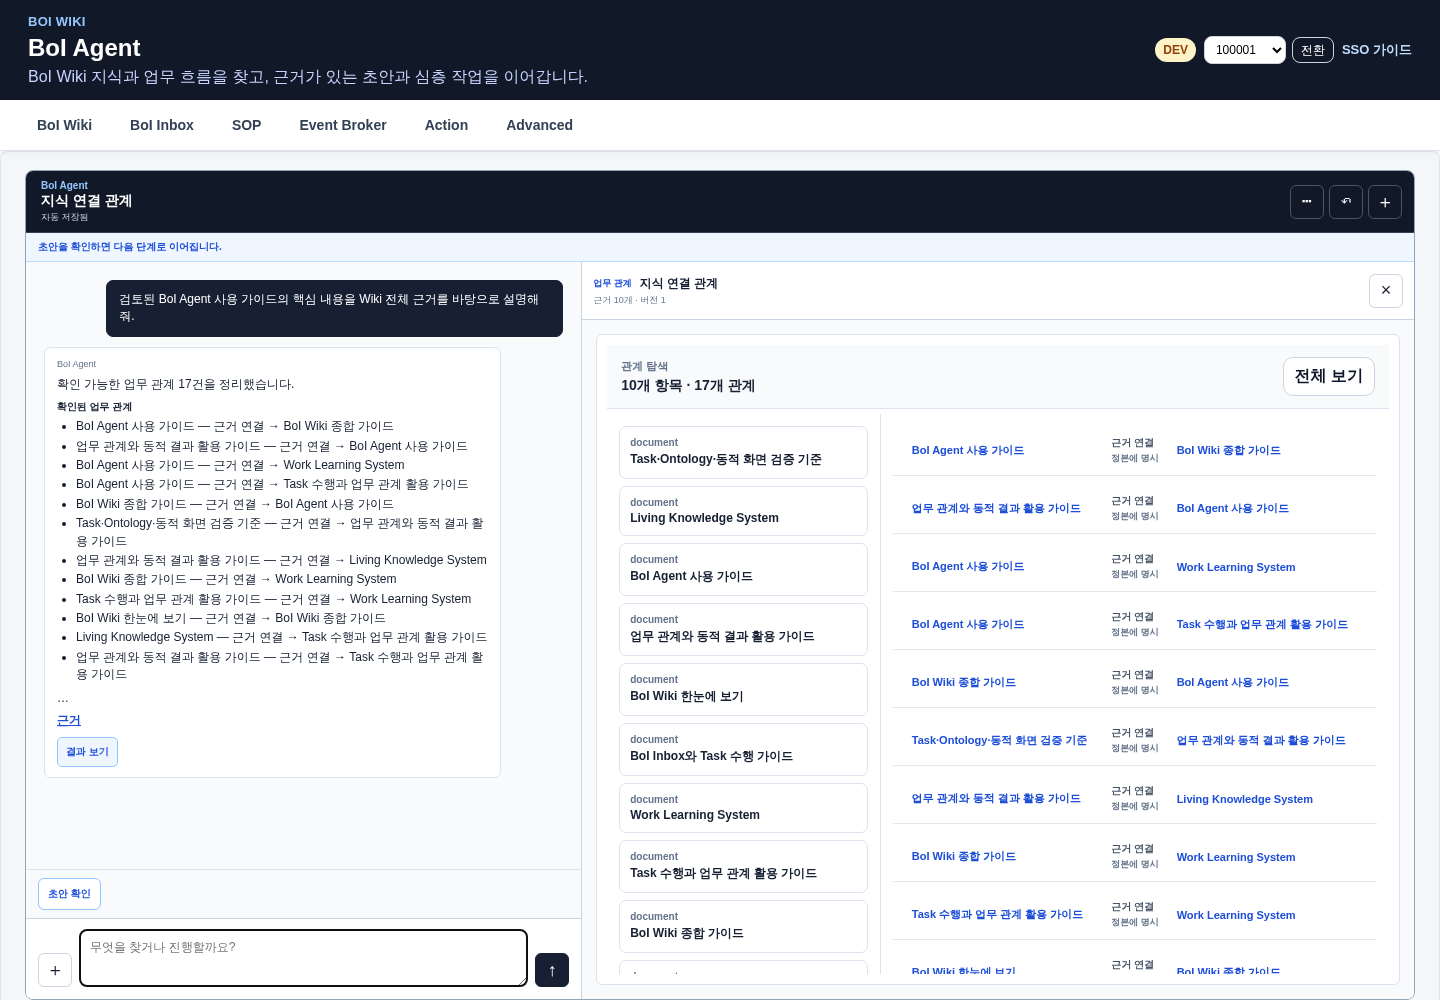
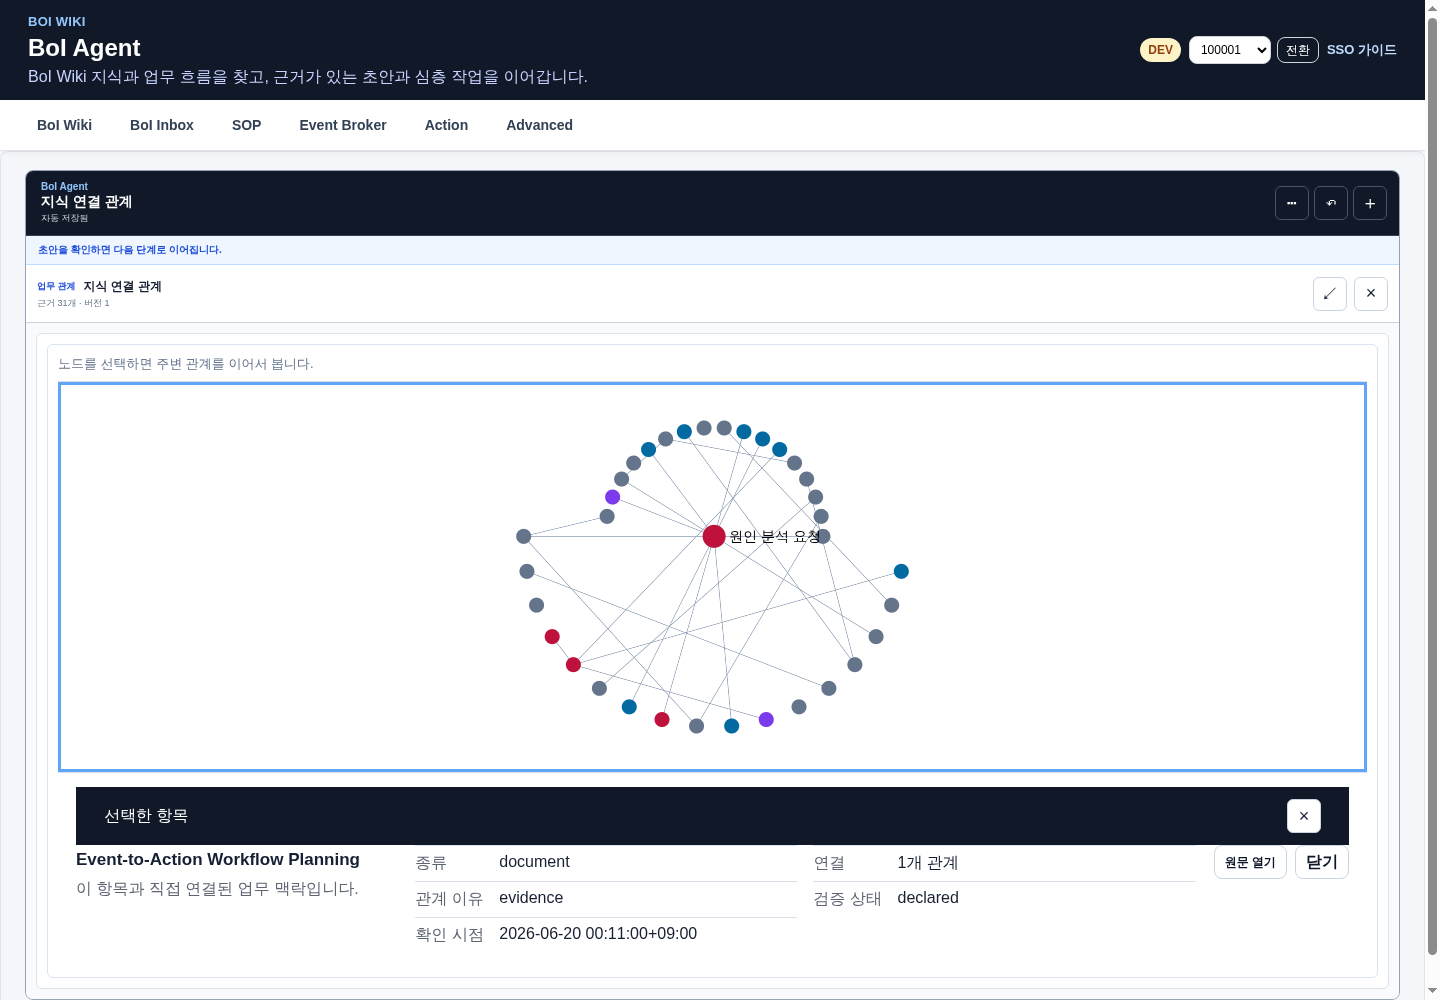
docs: publish verified graph dynamic work and acceptance guidance

diff --git a/data/boi/public/boi-wiki-manual/operations/task-ontology-a2ui-acceptance.md b/data/boi/public/boi-wiki-manual/operations/task-ontology-a2ui-acceptance.md
@@ -5,7 +5,7 @@ type: boi/manual
 title: Task·Ontology·동적 화면 검증 기준
 description: Task 수행, 업무 관계 탐색과 동적 결과 화면을 실제 업무에 사용하기 전에 확인하는 acceptance 기준
 tags: [BoIWiki, Task, Ontology, A2UI, Acceptance, Evidence]
-timestamp: 2026-07-13T00:10:00+09:00
+timestamp: 2026-07-13T20:10:00+09:00
 boi_id: boi:public:boi-wiki-manual:operations:task-ontology-a2ui-acceptance
 visibility: public
 classification: internal
@@ -14,7 +14,7 @@ author:
   type: agent
   agent_id: codex
 acl_policy: acl:public
-status: draft
+status: reviewed
 source_refs:
   - type: boi
     ref: boi:public:boi-wiki-manual:workflows:task-execution-ontology-guide
@@ -33,13 +33,13 @@ implementation_refs:
     ref: scripts/evaluate_agent_v2_work_scenarios.py
 review:
   reviewer: platform-lead
-  reviewed_at: 2026-07-13T03:10:00+09:00
-  review_status: needs_revision
+  reviewed_at: 2026-07-13T20:10:00+09:00
+  review_status: reviewed
 ---
 
 # 무엇을 검증하나
 
-> 현재 상태: core acceptance와 Mermaid artifact 직접 진입은 통과했지만 외부 OpenKB release gate와 생성 artifact 최종 응답 p95가 기준을 충족하지 못했다. 이 문서는 해당 항목이 해결될 때까지 `draft`로 유지한다.
+> 현재 상태: core, 실제 브라우저 여정, 로컬 Gemma, Graphify와 OpenKB release gate를 모두 통과했다. 아래 수치는 2026-07-13 최종 통합 실행 결과이며, 부분 실행 결과를 합산하지 않았다.
 
 Task 수행 화면, 업무 관계 그래프와 동적 결과 화면은 각각 따로 보이는 기능이 아니다. 같은 업무 맥락과 근거를 유지하면서 사람이 실제 일을 수행하고, 관계를 이해하며, 안전하게 결과를 남길 수 있어야 한다.
 
@@ -88,28 +88,33 @@ GPT-5.5는 기본 acceptance에 사용하지 않는다. Gemma에서 실패하거
 
 # 현재 검증 상태
 
-2026-07-13 기준으로 50개 handler와 12개 browser journey, production-like Gemma 의미 평가를 실행했다. core 기능과 Graphify release gate는 통과했지만 OpenKB 실제 add와 생성 artifact 응답 시간은 미통과다.
+2026-07-13 기준으로 50개 handler, 15개 실제 browser journey와 production-like Gemma 의미 평가를 실행했다. 브라우저 검증은 숨겨진 fixture나 HTML 문자열 존재를 성공으로 세지 않고 실제 클릭, 입력, canvas pixel, 원문 이동과 상태 복원을 확인한다.
 
 | 검증 | 결과 |
 |---|---:|
 | 결정적 시나리오 | 50/50 |
-| clean 전체 회귀 | 810 passed · 21분 48초 · repo 외부 격리 TMP runtime |
-| 브라우저 journey | 12/12 · 3 viewport · console 오류 0 |
-| Gemma 단일·멀티턴 의미 평가 | 17/17 · 모든 평가 지표 100% |
-| Snapshot 5회 p95 | 26.24ms |
-| 1-hop 관계 5회 p95 | 14.05ms |
-| grounded prose 최대 | 9.81초 |
-| 생성 artifact turn p95 | 18.71초 · 기준 미달 |
+| clean 전체 회귀 | 814 passed · 22분 57초 · 격리 TMP runtime |
+| 브라우저 journey | 15/15 · 4 viewport · 예상된 409 외 console 오류 0 |
+| Gemma 단일·멀티턴 의미 평가 | 17/17 · 모든 평가 지표 100% · GPT-5.5 미사용 |
+| Snapshot cold p95 / warm p50 | 289.74ms / 17.27ms |
+| 1-hop 관계 p95 | 15.16ms |
+| 4-hop path p95 | 12.05ms |
+| 첫 동적 surface compile p95 | 0.45ms |
+| 생성 graph artifact final p95 | 440.61ms |
 | Graphify 0.9.13 실제 CLI | 90 node·177 edge 수입 후 rollback 통과 |
-| OpenKB 0.4.4 실제 CLI | LM Studio `json_object` 호환 실패 · release 보류 |
-| Mermaid artifact 직접 진입 | cold URL·desktop reload·mobile reload 통과 · SVG nonblank·console 오류 0 |
-| 검색 품질 | Recall@8 1.00 · authoritative Top-3 1.00 |
+| OpenKB 0.4.4 실제 CLI | 실제 PDF에서 private 후보 4개 생성 · navigation 0 · 정본 변경 0 |
+| Graph UX | 1440×1000·1180×850·949×1151·390×844, canvas 폭 100%, 하단 inspector·Compact 복원 통과 |
+| 검색 품질 | Recall@8 1.00 · authoritative Top-3 1.00 · canonical Agent 가이드 Top-1 |
 | Web·REST·MCP parity | 10/10 |
 | LM Studio load/unload | 0건 |
 
 실모델 평가는 사용자가 띄운 Gemma만 사용한다. `업무 이벤트와 SOP 관계 설명 → 방금 관계만 Mermaid` 멀티턴에서 직전 citation보다 넓은 검색 후보를 다시 해석해 되묻는 결함을 발견했고, 실제 citation 집합을 후속 표현 변환의 경계로 사용하도록 수정한 뒤 해당 시나리오가 통과했다. 실패와 수정 이력은 날짜별 Team validation 문서에 남기며, 이전의 형식 검사 결과는 역사적 draft로 유지한다.
 
-이 결과는 core 구현의 acceptance이며 전체 플랫폼 완료 선언은 아니다. OpenKB 호환 경계와 생성 artifact p95를 해결하고 최종 clean 전체 회귀를 다시 통과한 뒤에만 이 문서를 `reviewed`로 전환한다. 새 component, relation, Task mode 또는 Adapter 계약을 추가하면 해당 handler와 browser journey를 함께 추가한다.
+초기 실행에서는 OpenKB의 `response_format: json_object`가 LM Studio endpoint와 맞지 않았고 생성 artifact p95도 18.71초였다. compatibility gateway가 요청을 일반 JSON 호출로 변환한 뒤 schema를 검증하고, GraphQuery 결과를 추가 모델 호출 없이 deterministic compiler로 artifact화하도록 수정했다. 최종 실행에서는 OpenKB와 440.61ms artifact gate가 모두 통과했다.
+
+일반 장문 답변의 모델 처리 시간은 이번 artifact gate와 분리해 기록한다. 최종 Gemma 의미 평가에서는 답변 종류에 따라 20~45초가 걸렸으므로 운영 성능 개선 대상이다. 이 지연을 숨기거나 440.61ms artifact 수치로 대체하지 않는다.
+
+새 component, relation, Task mode 또는 Adapter 계약을 추가하면 해당 handler와 browser journey를 함께 추가하고 이 문서를 다시 검증 상태로 전환한다.
 
 # 실패를 다루는 원칙
 

diff --git a/data/boi/public/boi-wiki-manual/knowledge/ontology-explorer-and-source-adapters.md b/data/boi/public/boi-wiki-manual/knowledge/ontology-explorer-and-source-adapters.md
@@ -66,9 +66,9 @@ flowchart LR
 
 BoI Wiki의 `연결 관계`에서 문서, 사람, 팀, SOP, Workflow, Task, Event, Action, Skill, 근거와 결과를 검색한다. 처음에는 선택한 항목의 한 단계 이웃만 연다. 항목을 선택하면 필요한 주변 관계만 더 불러오므로 전체 Wiki를 한 번에 브라우저로 보내지 않는다.
 
-![현재 항목의 검증된 한 단계 관계를 탐색하는 화면](../_media/browser/current-guide/20260713-boi-agent-ontology-explorer-1440x1000.png)
+![현재 항목의 검증된 한 단계 관계를 전체 폭으로 탐색하는 화면](../_media/browser/current-guide/20260713-ontology-explorer-1440x1000.png)
 
-오른쪽 정보 영역에서는 다음을 확인한다.
+그래프는 결과 영역 전체 폭을 사용한다. 노드를 선택한 경우에만 아래쪽 정보 영역이 열리며 다음을 확인한다.
 
 - 사용자용 이름과 자산 종류
 - 왜 연결됐는지 보여주는 관계 이름
@@ -76,6 +76,10 @@ BoI Wiki의 `연결 관계`에서 문서, 사람, 팀, SOP, Workflow, Task, Even
 - 관찰 시점과 유효 기간
 - 관계를 뒷받침하는 이동 가능한 근거
 - 해당 문서나 업무 화면으로 이동하는 명령
+
+아래쪽 정보 영역은 데스크톱에서 최대 220px, 모바일에서 화면 높이의 45%까지만 사용한다. 열고 닫아도 그래프 폭은 바뀌지 않으며 ResizeObserver가 남은 높이에 맞춰 canvas를 조정한다. `Esc`는 선택 정보부터 닫고, Agent 안에서는 이어서 결과 크게 보기와 Expanded를 순서대로 닫는다. 선택 노드와 확대 위치는 작업별로 복원한다.
+
+![949px 폭에서도 그래프 폭을 유지하는 관계 탐색 화면](../_media/browser/current-guide/20260713-ontology-explorer-949x1151.png)
 
 AI가 추론한 관계는 검토 전 권한, 자동 배정, 전문성, 완료 판단과 Autopilot에 사용하지 않는다.
 
@@ -131,7 +135,9 @@ Graphify CLI는 선택 설치다. 2026-07-13 release gate에서는 MIT 라이선
 
 PDF·Word·PPT·Excel 원본은 자료 보관함에 유지한다. staging `manifest.json`의 page·summary·claim을 private `KnowledgeCandidate`로 가져오며 `review_required` 상태로 시작한다. 원본 위치와 revision을 보존하고, 중복·모순·ACL 검토 전에는 Team/Public 문서에 쓰지 않는다.
 
-현재 Adapter는 검증된 export를 가져오는 경계다. Apache-2.0의 `OpenKB 0.4.4`는 격리 설치와 durable job 복구를 검증했지만, 현재 LM Studio endpoint가 OpenKB의 `json_object` 응답 형식을 지원하지 않아 실제 add release gate는 보류 상태다. 빈 page나 CLI 내부 오류는 성공으로 기록하지 않는다. 앱은 외부 CLI를 자동 설치하거나 모델을 load/unload하지 않으며 공유 정본을 자동 재작성하지 않는다.
+Apache-2.0의 `OpenKB 0.4.4`는 격리된 durable job으로 실행한다. OpenKB가 요청하는 `json_object` 형식은 loopback compatibility gateway가 이미 로드된 Gemma의 일반 JSON 요청으로 바꾸고, 결과를 schema로 검증한다. 한 번의 복구 시도 뒤에도 유효하지 않으면 job을 실패 처리한다.
+
+2026-07-13 release gate에서는 실제 PDF 한 건에서 private KnowledgeCandidate 4개를 만들었고 `index.md`, `log.md`는 제외했다. compatibility 요청 5건 중 4건을 변환했으며 모델 load/unload 요청은 0건이었다. 후보는 중복·모순·ACL 검토 전 Team/Public 정본에 쓰지 않는다.
 
 # 성능과 복구
 
@@ -139,9 +145,12 @@ PDF·Word·PPT·Excel 원본은 자료 보관함에 유지한다. staging `manif
 - source revision별 증분 upsert와 삭제 tombstone을 사용한다.
 - 복구·migration 명령이 아닌 일반 동기화에서 전체 truncate를 하지 않는다.
 - Explorer는 최초 40~80개, 브라우저 최대 500개 node로 제한한다.
+- 관계 canvas는 workbench 폭의 90% 이상을 사용하고 선택 정보가 canvas 폭을 줄이지 않아야 한다.
 - Adapter 실패는 source job과 validation report에 남고 다른 Source를 막지 않는다.
 - Adapter 동기화는 queued job을 즉시 반환하고 running·completed·failed·cancelled 상태를 보존한다. timeout과 사용자 cancel을 확인하며, 재시작 시 queued/running 작업을 다시 대기열에 넣는다.
 - Gemma와 BGE-M3는 이미 로드된 모델만 사용하며 load/unload API를 호출하지 않는다.
+
+![모바일 결과 탭에서 필요한 관계만 탐색하는 화면](../_media/browser/current-guide/20260713-ontology-explorer-390x844.png)
 
 # 함께 보기
 

diff --git a/data/boi/public/boi-wiki-manual/operations/operator-runbook.md b/data/boi/public/boi-wiki-manual/operations/operator-runbook.md
@@ -194,17 +194,22 @@ python scripts/check_task_ontology_a2ui_acceptance.py --output .tmp/task-ontolog
 python scripts/evaluate_agent_v2_work_scenarios.py --output .tmp/agent-v2-work-scenarios.json
 node scripts/check_task_ontology_a2ui_browser.mjs \
   --base-url="$BOI_BASE_URL" \
-  --output=.tmp/task-ontology-a2ui-browser.json
+  --output=.tmp/task-ontology-a2ui-browser.json \
+  --screenshot-dir=.tmp/task-ontology-a2ui-browser-shots
+python scripts/check_openkb_release_gate.py \
+  --output .tmp/openkb-release-gate.json
 ```
 
-첫 명령은 격리된 결정적 계약, 두 번째는 실제 API 성능과 model residency, 세 번째는 로컬 Gemma 의미 품질, 마지막은 12개 실제 브라우저 journey를 검증한다. 실패·모호 사례를 별도 심사 대상으로 표시할 때만 `BOI_GPT55_TEST_MODE=1`과 `--judge-failures`를 함께 사용한다.
+첫 명령은 격리된 결정적 계약, 두 번째는 실제 API 성능과 model residency, 세 번째는 로컬 Gemma 의미 품질, 네 번째는 15개 실제 브라우저 journey와 네 viewport를 검증한다. 마지막 명령은 실제 PDF·Office 원본에서 OpenKB private 후보가 생성되는지 확인한다. 실패·모호 사례를 별도 심사 대상으로 표시할 때만 `BOI_GPT55_TEST_MODE=1`과 `--judge-failures`를 함께 사용한다.
 
 외부 Adapter release gate는 core acceptance와 분리한다. 운영자가 승인한 격리 tool 버전과 실제 export를 사용하고 mock CLI 통과를 release 통과로 계산하지 않는다.
 
 - Graphify: 실제 `graph.json`의 `links`, confidence tag, source location을 확인하고 import manifest의 node·edge 수와 rollback 제거 수가 일치해야 한다.
 - OpenKB: 실제 `openkb add`가 하나 이상의 private candidate를 만들고 `index.md`, `log.md`, `AGENTS.md`를 제외해야 한다.
 - CLI 종료 코드가 0이어도 validation result가 비어 있으면 job은 `failed/retryable`이어야 한다.
-- 2026-07-13 기준 Graphify `0.9.13`은 통과했고 OpenKB `0.4.4`는 LM Studio의 `json_object` 비호환으로 release 보류다.
+- 2026-07-13 기준 Graphify `0.9.13`은 실제 import·rollback을 통과했다. OpenKB `0.4.4`는 loopback compatibility gateway를 통해 실제 PDF에서 private 후보를 생성하고 `index.md`·`log.md` 제외를 통과했다. gateway는 `json_object` 요청을 이미 로드된 Gemma의 일반 JSON 요청으로만 변환하며 schema 실패 시 한 번만 복구한다.
+
+브라우저 acceptance는 canvas 존재만 세지 않는다. Agent 질문 전송, 진행 상태, 자연어 Graph plan, node 선택, canonical 원문 이동, split·집중 보기, `Esc`, 새로고침 복원과 A2UI 표·Timeline·Mermaid·업무 양식을 실제로 조작한다. 기준 viewport는 `1440×1000`, `1180×850`, `949×1151`, `390×844`다.
 
 업무 관계와 동적 화면 진단:
 

diff --git a/data/boi/public/boi-wiki-manual/agent/work-relations-and-dynamic-results.md b/data/boi/public/boi-wiki-manual/agent/work-relations-and-dynamic-results.md
@@ -80,7 +80,7 @@ flowchart LR
 - 판단·조치·근거를 남겨야 하면 **업무 기록 입력**을 연다.
 - 외부 부작용이 있는 Action은 **실행 전 확인**을 거친다.
 
-관계 탐색은 처음에 한 단계 이웃만 연다. 항목을 선택할 때 필요한 주변 관계만 추가하므로 큰 Wiki 전체를 한 번에 브라우저로 보내지 않는다.
+관계 탐색은 처음에 한 단계 이웃만 연다. 항목을 선택할 때 필요한 주변 관계만 추가하므로 큰 Wiki 전체를 한 번에 브라우저로 보내지 않는다. 그래프는 결과 폭을 모두 사용하고, 선택 항목의 설명과 근거는 오른쪽 고정 열이 아니라 아래쪽 정보 영역에 연다. 정보 영역을 닫으면 그래프가 전체 높이를 다시 사용한다.
 
 동적 결과는 저장만 하는 JSON이 아니다. BoI Agent가 검증된 surface를 다시 읽어 관계표, 시간 흐름, 흐름 그림 또는 관계 탐색 DOM을 만든다. Task 수행 화면도 같은 계약의 `업무 기록 입력`과 `근거 선택`을 사용한다. surface가 손상됐거나 client가 지원하지 않으면 같은 의미의 기존 typed 화면으로 복구한다.
 
@@ -88,13 +88,13 @@ flowchart LR
 
 관계를 더 넓게 살펴볼 때만 탐색 화면을 연다. 처음부터 전체 Wiki를 그리지 않고 현재 대상을 중심으로 한 단계씩 확장한다.
 
-![검증된 업무 관계를 한 단계씩 확장하는 BoI Agent 관계 탐색 화면](../_media/browser/current-guide/20260713-boi-agent-ontology-explorer-1440x1000.png)
+![검증된 업무 관계를 한 단계씩 확장하는 관계 탐색 화면](../_media/browser/current-guide/20260713-ontology-explorer-1440x1000.png)
 
 모바일에서는 대화와 결과를 탭으로 나누고, 같은 관계와 근거를 유지한다.
 
 ![모바일에서 역할 관계표를 확인하는 BoI Agent 화면](../_media/browser/current-guide/20260713-boi-agent-role-table-390x844.png)
 
-![모바일에서 필요한 관계만 확장하는 BoI Agent 관계 탐색 화면](../_media/browser/current-guide/20260713-boi-agent-ontology-explorer-390x844.png)
+![모바일에서 필요한 관계만 확장하는 관계 탐색 화면](../_media/browser/current-guide/20260713-ontology-explorer-390x844.png)
 
 # 근거를 확인하는 방법
 

diff --git a/data/boi/team/platform/team-platform-boi-wiki-architecture.md b/data/boi/team/platform/team-platform-boi-wiki-architecture.md
@@ -248,6 +248,10 @@ flowchart LR
 
 Web client는 저장된 surface를 다시 조회하고 허용된 component registry로 실제 DOM을 만든다. 표, Timeline, Mermaid, Ontology Explorer, WorkRecordForm과 EvidencePicker가 1차 catalog다. surface validation과 fallback 상태는 Advanced `연결 상태`의 관리자용 접힌 진단에서만 확인하며 일반 사용자에게 protocol 이름을 노출하지 않는다.
 
+Ontology Explorer는 Agent와 `/knowledge-graph`가 같은 Graphology·Sigma renderer를 사용한다. Agent Expanded에서는 관계 artifact에 34:66 분할을 적용하고, 680px보다 좁은 첫 canvas는 결과 집중 보기로 전환한다. 선택 상세는 canvas 옆 열을 만들지 않고 아래쪽 inspector로 열어 그래프 폭을 보존한다. `PetSurfaceState`는 artifact별 선택 node, inspector, camera와 focus mode를 저장한다. Compact에서는 Sigma instance를 만들지 않으며 배경으로 내려간 renderer도 camera를 저장한 뒤 해제한다.
+
+Mermaid runtime은 정적 자산을 gzip으로 전송하고 browser idle에 미리 준비한다. 실제 SVG compile은 deterministic artifact source를 사용하며 답변·후속 질문·동적 화면 때문에 별도 LLM 호출을 추가하지 않는다. OpenKB compatibility gateway도 모델 관리 API를 호출하지 않고, `json_object` 요청만 일반 JSON 요청으로 변환한 뒤 schema 검증과 단 한 번의 복구를 수행한다.
+
 응답 크기 제한은 표현 중복을 먼저 줄이고 WorkIntent와 최소 citation을 보존한다. citation이 제거된 응답을 `grounded`로 표시해서는 안 된다. 이 경계는 [Task·Ontology·동적 화면 검증 기준](/docs/boi:public:boi-wiki-manual:operations:task-ontology-a2ui-acceptance)의 결정적 테스트와 실모델 시나리오로 검증한다.
 
 # Business Runtime
